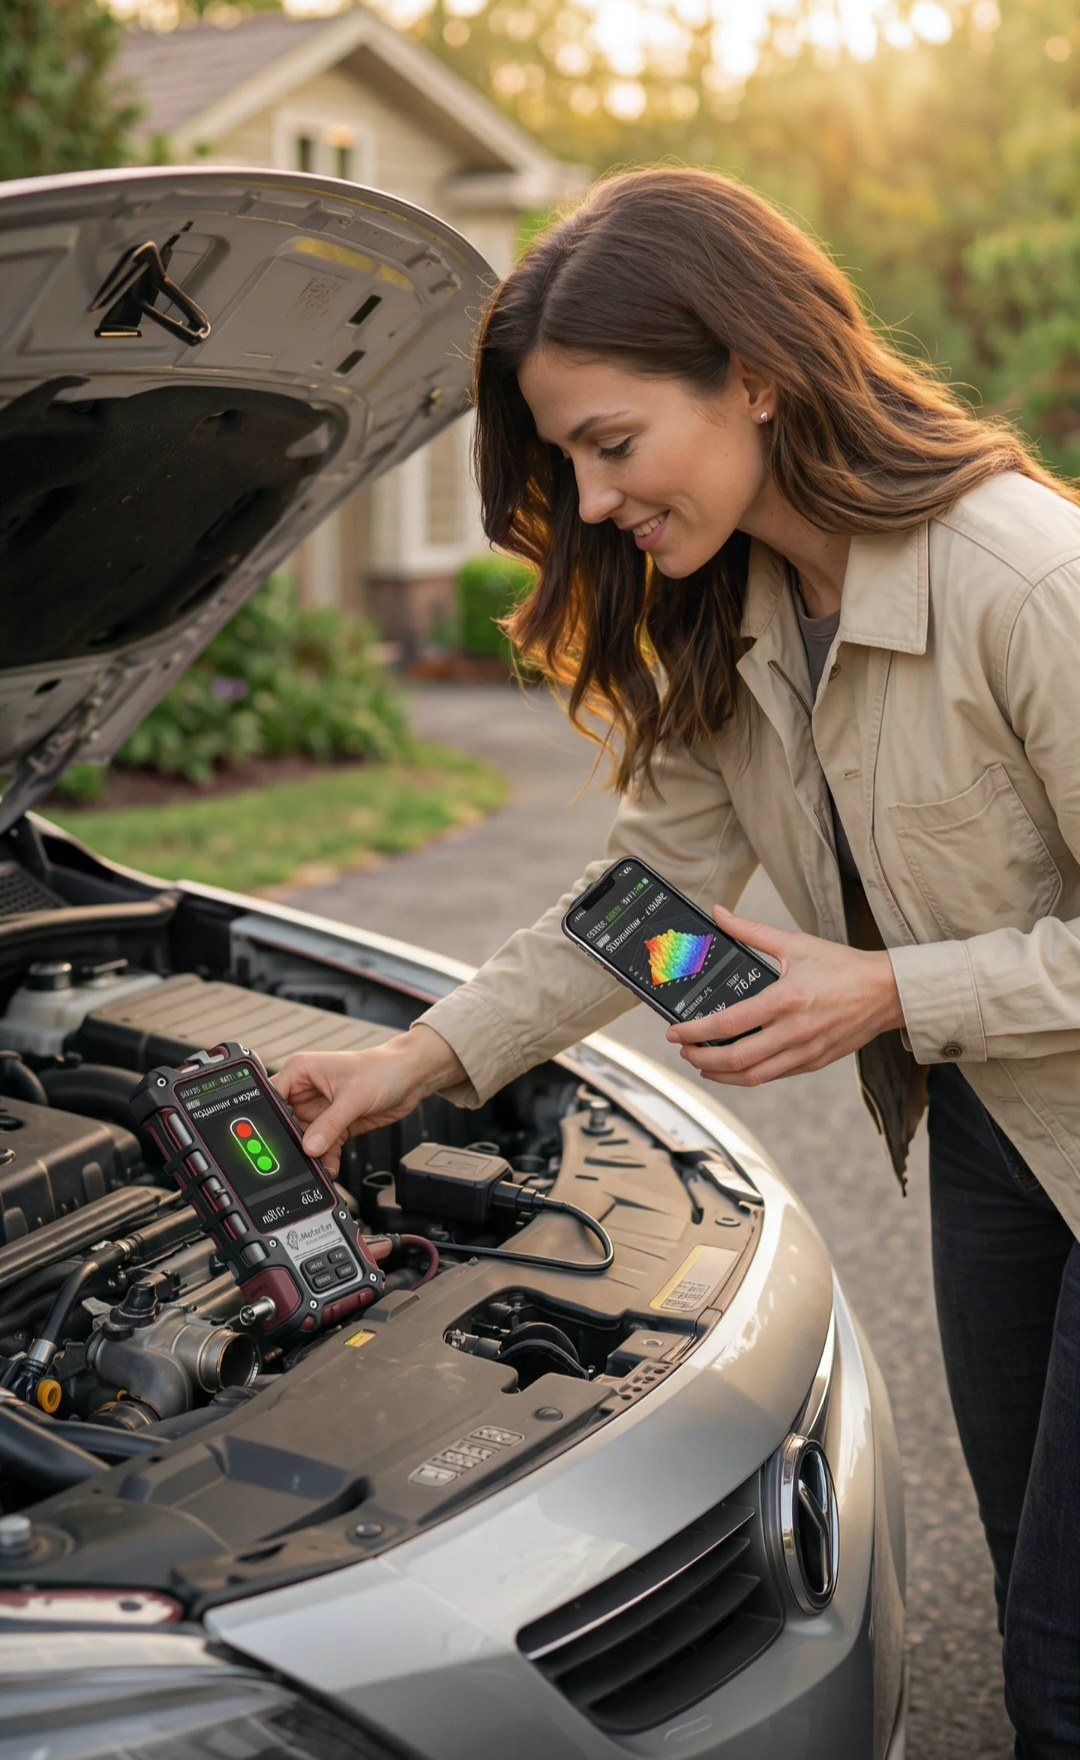
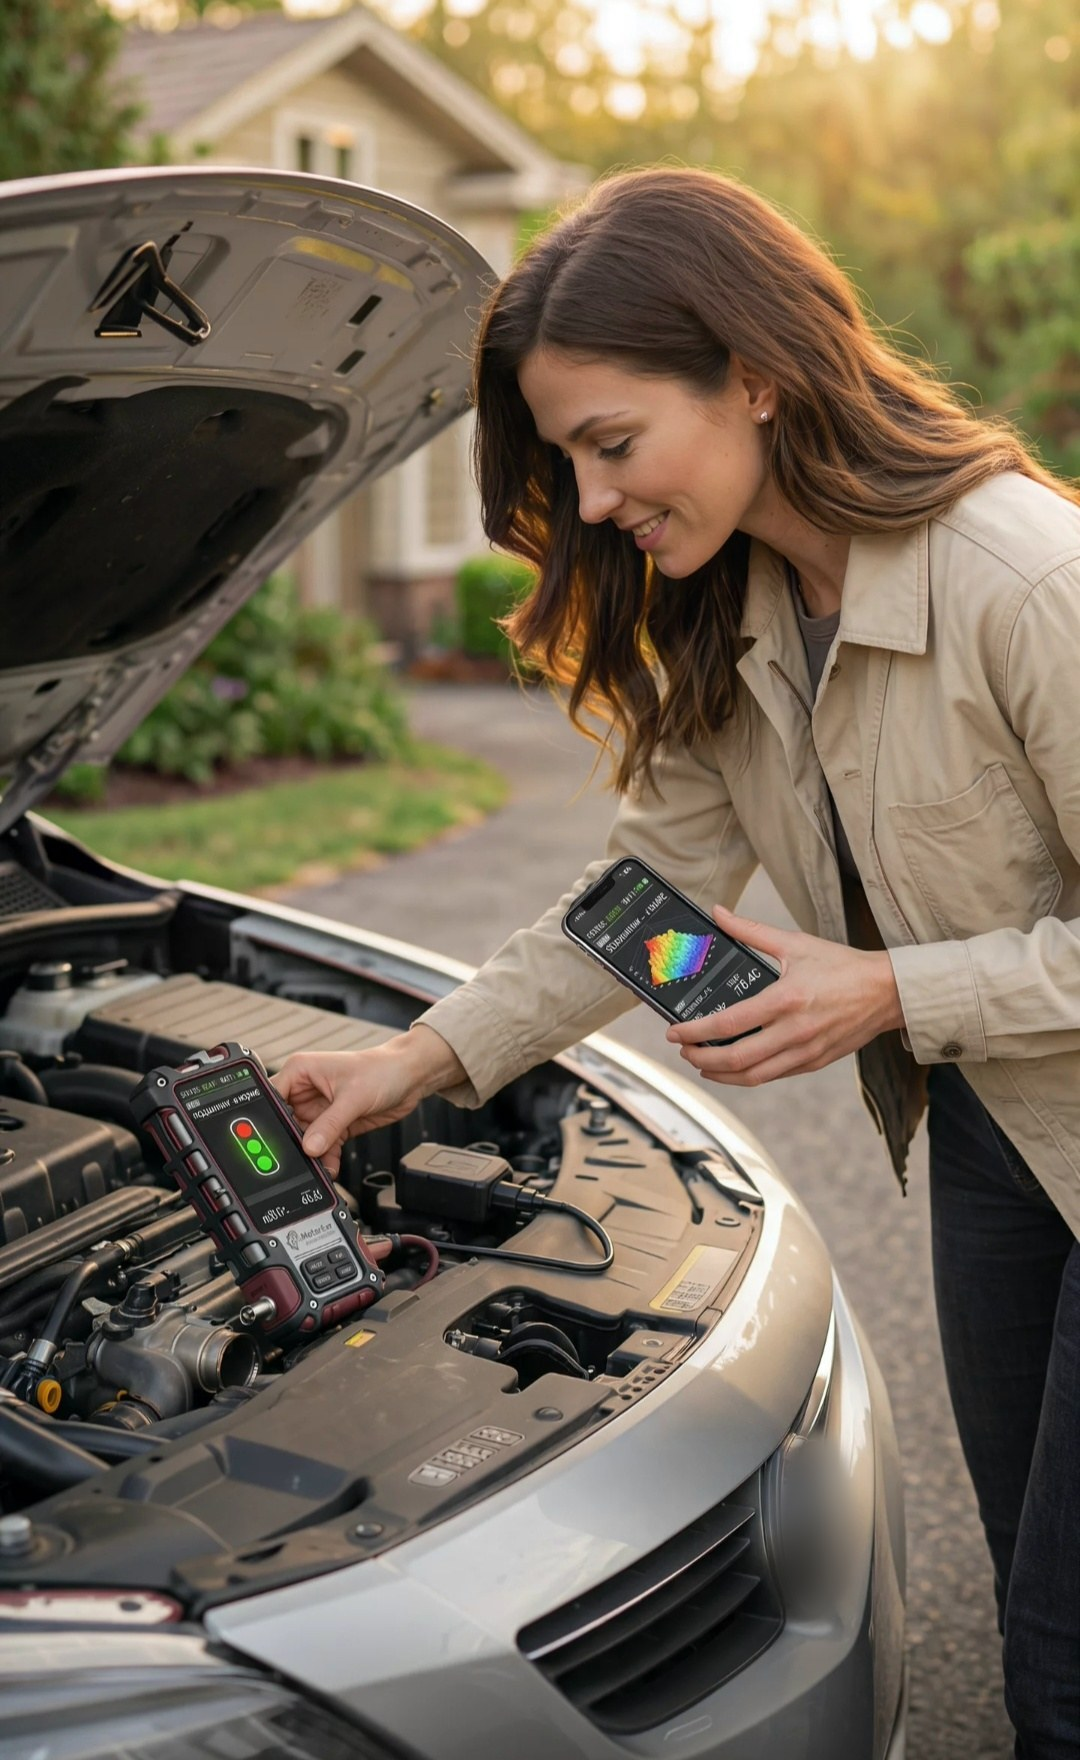
Blur car emblem

Changed region(s): [[0.7028, 0.8125, 0.7944, 0.9375]]

diff --git a/index.html b/index.html
@@ -304,7 +304,7 @@ footer{border-top-color:var(--bordo)}
   <div class="kicker">Made for everyone</div>
   <h2>No experience needed. Anyone can use it.</h2>
   <div class="founder">
-    <figure class="photo"><img src="anyone.jpg" alt="A woman checking her car engine with MotorEar and the app"><figcaption>Checking the car at home, in a couple of minutes.</figcaption></figure>
+    <figure class="photo"><img src="anyone.jpg?v=2" alt="A woman checking her car engine with MotorEar and the app"><figcaption>Checking the car at home, in a couple of minutes.</figcaption></figure>
     <div>
       <p>You don't have to be a mechanic or an engineer. If you can use a smartphone, you can use MotorEar.</p>
       <ul>
